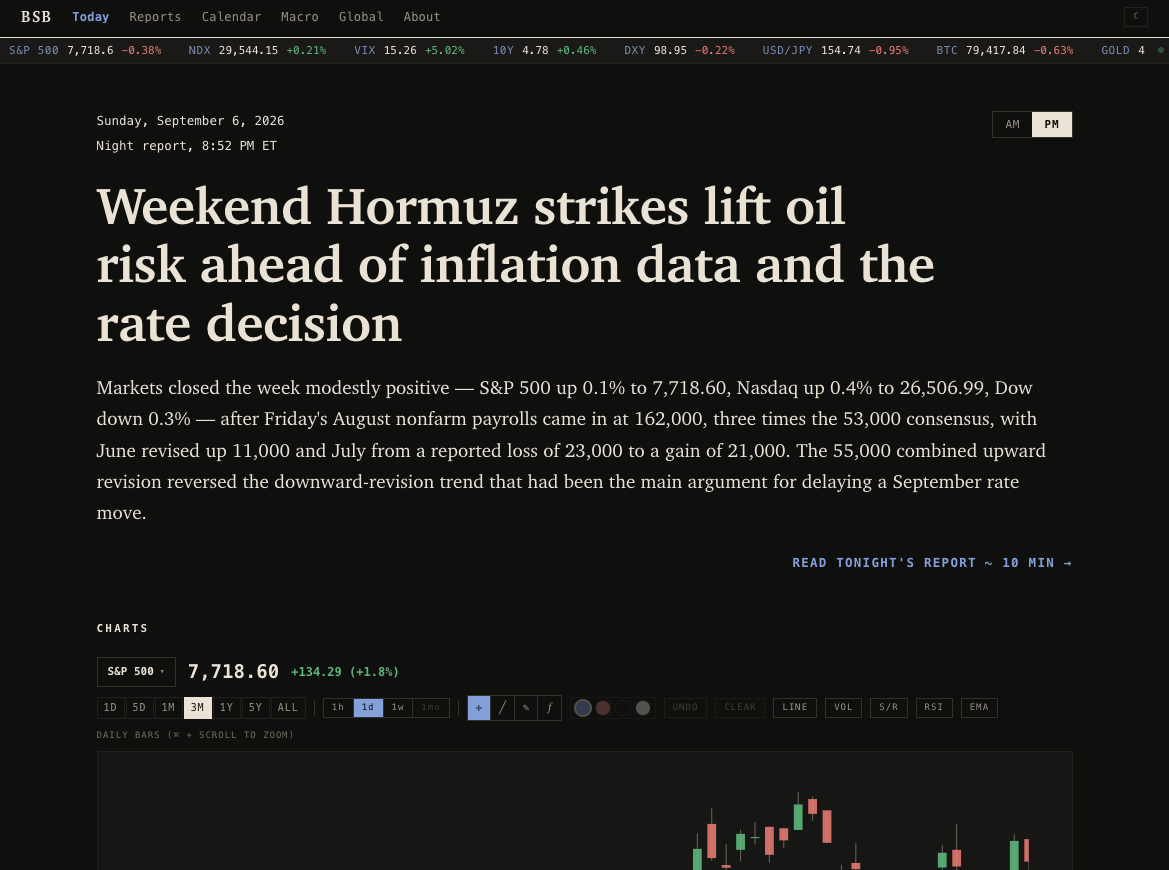
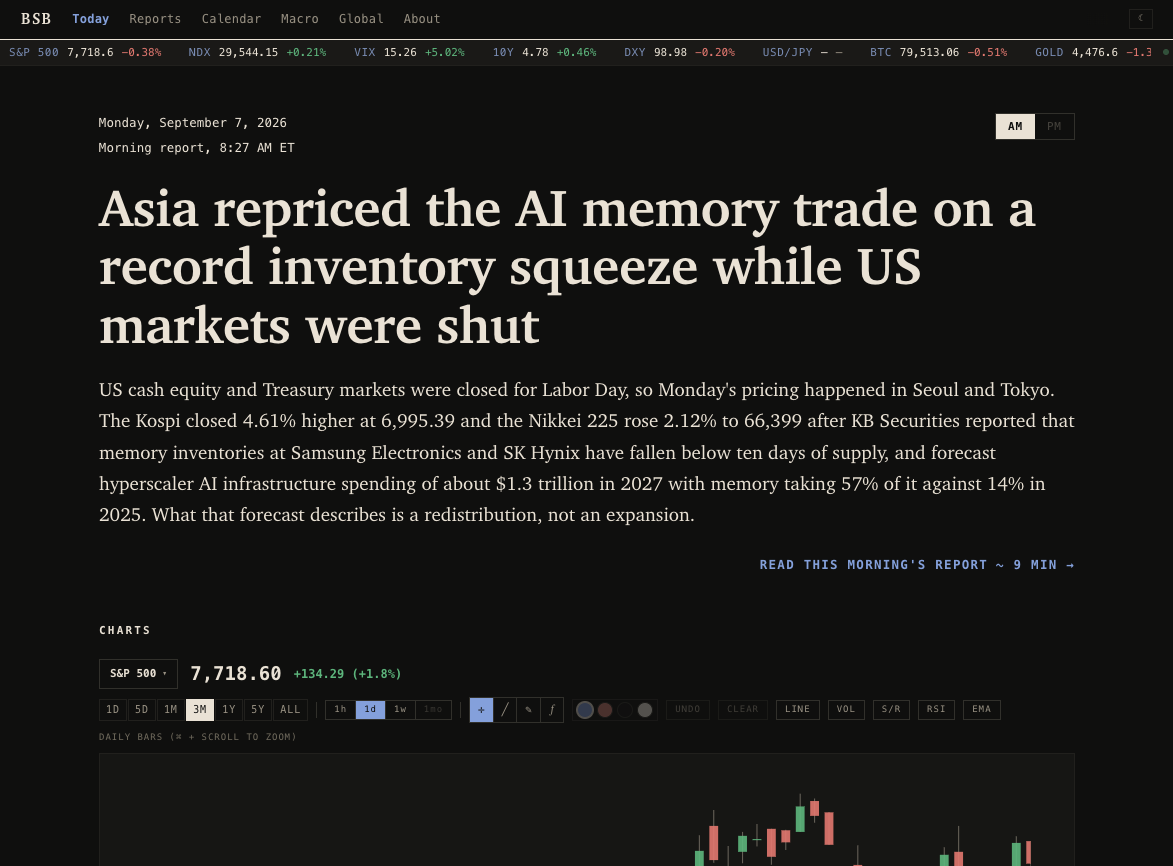
Open the Buy Side Briefings study on Monday's morning report
Claude-Session: https://claude.ai/code/session_0114vRXm3QTD2DAYbHioWHdv

diff --git a/src/data/case-studies.ts b/src/data/case-studies.ts
@@ -514,10 +514,10 @@ export const caseStudies: Record<string, CaseStudy> = {
         src: "/projects/buy-side-site-today-3.png",
         // The shot that opens the study, and the only one that has a whole
         // website in it rather than one panel of it, so it is given more room
-        // than the rest. 1169px of file is the ceiling on how far it can go
+        // than the rest. 1173px of file is the ceiling on how far it can go
         // before it softens; 1000 keeps it clear of that.
         max: 1000,
-        alt: "The Today page with the toggle on PM: a live ticker strip under the nav, then the night report of Sunday, September 6, filed at 8:52 PM ET, its headline on weekend Hormuz strikes lifting oil risk ahead of inflation data and the rate decision, the paragraph that argues it, a link out to the full ten minute read, and the charts panel opening underneath",
+        alt: "The Today page with the toggle on AM: a live ticker strip under the nav, then the morning report of Monday, September 7, filed at 8:27 AM ET, its headline on Asia repricing the AI memory trade on a record inventory squeeze while US markets were shut, the paragraph that argues it, a link out to the full nine minute read, and the charts panel opening underneath",
       },
 
             {
